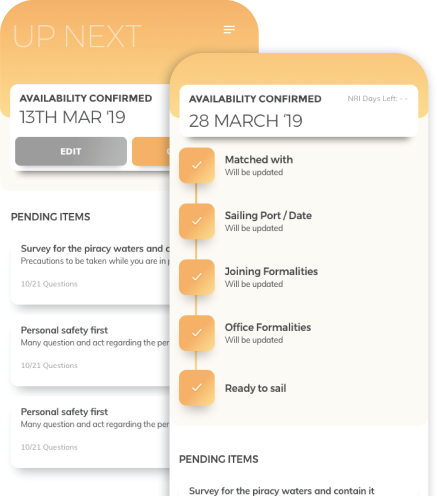
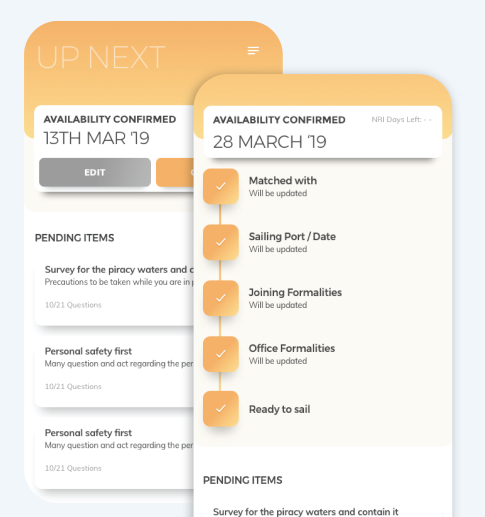
alignment fixes

Changed region(s): [[0.0, 0.0, 0.9817, 1.0], [0.0595, 0.9375, 0.0892, 0.9677]]

diff --git a/src/components/layout.home.js b/src/components/layout.home.js
@@ -6,6 +6,7 @@ import '../styles/index.css'
 import Header from './header'
 import Footer from './footer'
 import Img from 'gatsby-image'
+import Work from '../components/work'
 
 const HomeLayout = ({ children }) => (
   <StaticQuery
@@ -56,6 +57,43 @@ const HomeLayout = ({ children }) => (
             }
           }
         }
+        Work: allMarkdownRemark(
+          filter: { frontmatter: { templateKey: { eq: "work-page" } } }
+        ) {
+          edges {
+            node {
+              html
+              id
+              excerpt
+              frontmatter {
+                path
+                title
+                image {
+                  childImageSharp {
+                    fluid(quality: 100) {
+                      ...GatsbyImageSharpFluid
+                    }
+                  }
+                }
+                workTitle
+                workDescription
+                work {
+                  project {
+                    name
+                    summary
+                    image {
+                      childImageSharp {
+                        fluid(quality: 100) {
+                          ...GatsbyImageSharpFluid
+                        }
+                      }
+                    }
+                  }
+                }
+              }
+            }
+          }
+        }
       }
     `}
     render={data => (
@@ -77,8 +115,13 @@ const HomeLayout = ({ children }) => (
             {data.global.frontmatter.trademark}
           </span>
         </div> */}
-        <div className="sm:my-24 lg:my-32 mx-auto">{children}</div>
-
+        <div className="lg:mt-32 mx-auto">{children}</div>
+        <hr
+          className="sm:mx-4 lg:mx-32 my-20"
+          style={{ height: '0.1rem' }}
+          color="white"
+        />
+        <Work workData={data} />
         <Footer
           url={data.global.frontmatter.siteUrl}
           title={data.global.frontmatter.siteTitle}

diff --git a/src/components/work.js b/src/components/work.js
@@ -3,7 +3,7 @@ import PropTypes from 'prop-types'
 import Img from 'gatsby-image'
 
 export const WorkPageTemplate = ({ work }) => (
-  <div>
+  <div style={{ backgroundColor: 'rgba(255, 255, 255, 0)' }}>
     <div className="flex flex-wrap justify-center items-strech">
       {work.work.map(({ project }) => (
         <div key={project.name}>
@@ -14,8 +14,11 @@ export const WorkPageTemplate = ({ work }) => (
                 fluid={project.image.childImageSharp.fluid}
               />
             </div>
-            <div className="flex flex-col bg-white p-2 opacity-50">
-              <div className="text-2xl font-semibold py-2">{project.name}</div>
+            <div
+              className="flex flex-col p-4 border-t-2 border-solid border-fl-secondary" // #E05455
+              style={{ backgroundColor: 'white', color: '#424242' }}
+            >
+              <div className="text-xl font-semibold py-2">{project.name}</div>
               <div className="max-w-sm text-md leading-normal font-light">
                 {project.summary}
               </div>
@@ -29,7 +32,8 @@ export const WorkPageTemplate = ({ work }) => (
 )
 
 const Work = ({ workData }) => {
-  const { edges: work } = workData.data.Work
+  console.log(workData)
+  const { edges: work } = workData.Work
   return (
     <section name="work">
       {work.map(({ node: team }) => (

diff --git a/src/templates/way.js b/src/templates/way.js
@@ -38,8 +38,9 @@ export const WayPageTemplate = ({ props, contentComponent, wayData }) => {
           />
         </div>
         {wayData.frontmatter.sections.map(items => (
-          <div key={items.title}>
-            <h2 className="text-left py-6 text-3xl w-full">{items.title}</h2>
+          <div className="pb-6" key={items.title}>
+            <h2 className="text-left text-3xl w-full">{items.title}</h2>
+            <hr className="mb-6" style={{ height: '0.05rem' }} color="white" />
             <div className="flex sm:flex-wrap md:flex-no-wrap justify-start">
               {items.children.map(item => (
                 <React.Fragment key={item.title}>
@@ -57,7 +58,7 @@ export const WayPageTemplate = ({ props, contentComponent, wayData }) => {
                         />
                       </div>
                       <PageContent
-                        className="ml-10 mt-10 flex-grow sm:text-lg lg:text-xl leading-normal tracking-normal"
+                        className="lg:ml-10 mt-10 flex-grow sm:text-lg lg:text-xl leading-normal tracking-normal"
                         content={item.desc.childMarkdownRemark.html}
                       />
                     </div>

diff --git a/src/components/header.js b/src/components/header.js
@@ -25,16 +25,16 @@ class Header extends React.Component {
       <nav className="nav" role="navigation">
         <div className="logo sm:sticky lg:absolute absolute sm:mt-2 sm:ml-4 lg:mt-16 lg:ml-32">
           <Link to="/">
-            <div className="flex justify-center mb-2">
+            <div className="sm:flex md:flex justify-center mb-2">
               <img
-                className="sm:w-12 sm:h-12 md:w-16 md:h-16 lg:w-auto lg:h-auto"
+                className="sm:w-1/3 lg:w-auto lg:h-auto"
                 src="/img/finiteloop_logo.png"
                 alt="Logo"
               />
             </div>
-            <div className="flex justify-center">
+            <div className="sm:flex lg:flex justify-center">
               <img
-                className="sm:w-32 lg:w-auto"
+                className="sm:w-3/4 lg:w-auto"
                 src="/img/finiteloop_logo_text.png"
                 alt="Logo"
               />

diff --git a/src/components/offerings.js b/src/components/offerings.js
@@ -18,12 +18,12 @@ export const OfferingsPageTemplate = ({ offering }) => {
             />
           </div>
           {/* </Link> */}
-          <div className="flex-col px-8">
+          <div className="flex-col px-8 sm:text-center lg:text-left">
             <h2 className="text-md mb-2 text-fl-primary font-medium">
               {offering.frontmatter.title}
             </h2>
             <PageContent
-              className="leading-normal tracking-normal font-light text-md w-auto text-white"
+              className="leading-normal tracking-normal font-light text-lg w-auto text-white"
               content={offering.html}
             />
           </div>

diff --git a/src/pages/index.js b/src/pages/index.js
@@ -19,7 +19,7 @@ class IndexPage extends React.Component {
           }
         />
         <section
-          className="pb-6 sm:mx-5 lg:mx-auto"
+          className="py-6 sm:mx-5 lg:mx-auto"
           style={{ maxWidth: 'fit-content' }}
           name="introduction"
         >

diff --git a/tailwind.js b/tailwind.js
@@ -180,7 +180,7 @@ module.exports = {
   */
 
   screens: {
-    sm: '310px',
+    sm: '210px',
     md: '768px',
     lg: '992px',
     xl: '1200px',

diff --git a/src/pages/work/work.md b/src/pages/work/work.md
@@ -9,16 +9,16 @@ workDescription: >-
 work:
   - project:
       image: /img/gangway.png
-      name: Gangway Desk
-      summary: Lorem ipsum dolor sit amet, consectetur adipiscing elit. Suspendisse quis commodo sem. Fusce metus lectus, vehicula id viverra eget, hendrerit a metus.
+      name: Gangway interaction desk
+      summary: We designed a reception desk to be used on ships, rigs and factories which enables a safety culture, while creating a pleasant first interaction point for your brand..
   - project:
       image: /img/signage.png
-      name: Unified Signage System
-      summary: We created the worlds first social data infrastructure. A framework for worlds non-profits to make meaningful connections among different datasets
+      name: Human-centered signages
+      summary: We have rethought narratives in hazardous maritime environments and helped people-friendly redesign signages that are centered around seafarers instead of regulations.
   - project:
       image: /img/seafarers.png
-      name: Seafarer Proffesional App
-      summary: Lorem ipsum dolor sit amet, consectetur adipiscing elit. Suspendisse quis commodo sem. Fusce metus lectus, vehicula id viverra eget, hendrerit a metus.
+      name: AHOY! - Seafarer’s companion app
+      summary: We have brought the shipping industry to the mobile age with AHOY. We designed and architected a mobile app with backend admin system, for low data usage, scalable architecture and human centered designs.
   - project:
       image: /img/super_compute.png
       name: Super compute processing

diff --git a/src/pages/way/sections/main.md b/src/pages/way/sections/main.md
@@ -4,4 +4,4 @@ filename: main
 title: Our Way
 ---
 
-<div class="text-xl font-semibold uppercase">Purpose space&nbsp;&nbsp;&nbsp;&nbsp;&nbsp;&nbsp;Problem space&nbsp;&nbsp;&nbsp;&nbsp;&nbsp;&nbsp; Solution space&nbsp;&nbsp;&nbsp;&nbsp;&nbsp;&nbsp; Reflection space&nbsp;&nbsp;&nbsp;&nbsp;&nbsp;&nbsp; Service space</div>
+<!-- <div class="text-xl font-semibold uppercase">Purpose space&nbsp;&nbsp;&nbsp;&nbsp;&nbsp;&nbsp;Problem space&nbsp;&nbsp;&nbsp;&nbsp;&nbsp;&nbsp; Solution space&nbsp;&nbsp;&nbsp;&nbsp;&nbsp;&nbsp; Reflection space&nbsp;&nbsp;&nbsp;&nbsp;&nbsp;&nbsp; Service space</div> -->

diff --git a/src/pages/offerings/experience-design.md b/src/pages/offerings/experience-design.md
@@ -7,4 +7,4 @@ order: 3
 align: left
 ---
 
-We work with organizations to help realize their strategic business goals through fantastic customer experiences.
+We work with organizations to realize your strategic business goals through fantastic customer experiences.

diff --git a/src/pages/offerings/product_strategy.md b/src/pages/offerings/product_strategy.md
@@ -7,4 +7,4 @@ align: right
 order: 2
 ---
 
-We create new product lines for our customers that helped them acquire global brands.
+We create new product lines for our customers that helps them grow into new market and business paradigms.

diff --git a/src/pages/offerings/software_engg.md b/src/pages/offerings/software_engg.md
@@ -7,4 +7,4 @@ order: 4
 align: left
 ---
 
-We handcraft software products that are beautiful inside out. At heart we are coders.
+We handcraft software that is beautiful inside out. At heart we are coders.
